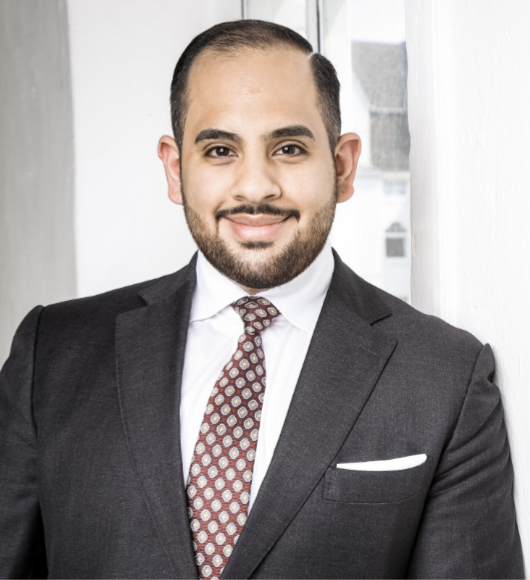
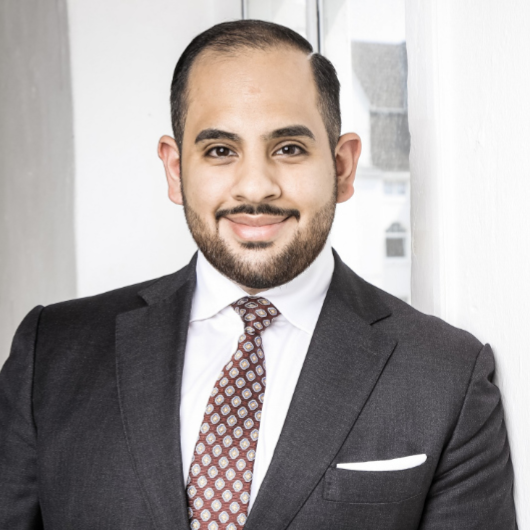
mobile Version

diff --git a/src/index.html b/src/index.html
@@ -5,61 +5,74 @@
     <meta name="viewport" content="width=device-width, initial-scale=1.0">
     <title>Personal Website</title>
     <link rel="stylesheet" href="styles/index.css">
-</head>
-<body>
+    <link rel="preconnect" href="https://fonts.gstatic.com">
+    <link rel="preconnect" href="https://fonts.gstatic.com">
+    <link rel="preconnect" href="https://fonts.gstatic.com">
+    <link rel="preconnect" href="https://fonts.gstatic.com">
+    <link rel="preconnect" href="https://fonts.gstatic.com">
+    <link href="https://fonts.googleapis.com/css2?family=Bebas+Neue&family=Nanum+Gothic:wght@400;700&family=Reenie+Beanie&display=swap" rel="stylesheet">
     <header>
         <h1>Abdullah Minawal</h1>
-        <nav>
-            <a href="#ueber-mich">About</a>
+        <nav class="navigation">
+            <a href="#info">Info</a>
+            <a href="#contact">Contact</a>
+            <a href="#about-me">About</a>
             <a href="#cv">CV</a>
         </nav>
     </header>
     <main>
-    <section>
-        <img src="images/Abdullah Minawal.png" alt="Das ist Abdullah Minawal" width="250px" height="auto;">
-        <figcaption>Das ist ein Bild für das ich mich mal rausgeputzt habe.</figcaption>
+    <section class="profil">
+        <img src="images/Abdullah Minawal.png" alt="Das ist Abdullah Minawal" width="80%" height="auto;" class="profilbild">
+        <figcaption class="fig">Hi, ich bin Abdullah!</figcaption>
     </section>
-    <main>
-        <h2>Meine Interessen</h2>
+    <section id="info" class="info">
+        <div class="interessen">
+        <h2>My Interests <span>✌</span></h2>
         <ul>
-            <li>Essen</li>
-            <li>Schlafen</li>
-            <li>Kraftsport</li>
-            <li>Programmieren</li>
+            <li class="red">Lesen</li>
+            <li class="green">Kochen</li>
+            <li class="blue">Kraftsport</li>
+            <li class="gold">Reisen</li>
+            <li class="purple">Programmieren</li>
         </ul>
-        <h2>Meine Skills</h2>
+        </div>
+        <h2>My Skills <span>⚙</span></h2>
         <ul>
-            <li>Essen</li>
-            <li>Schlafen</li>
-            <li>Kraftsport</li>
-            <li>Bald Programmieren</li>
+            <li class="blue">HTML5</li>
+            <li class="red">CSS3</li>
+            <li class="gold">JavaScript</li>
+            <li class="purple">React</li>
+            <li class="brown">Git</li>
+            <li class="green">NodeJS</li>
         </ul>
-    </main>
-    <section>
-        <h3>Telefonnummer</h3>
+    </section>
+    <section id="contact" class="contact">
+        <div class="telefon">
+        <h3>Telefon</h3>
         <a href="tel:+49-17669657020">017669657020</a>
+        </div>
         <h3>Mail</h3>
-        <a href="mailto:abdullah.minawal@hotmail.de">abdullah.minawal@hotmail.de</a>
+        <a href="mailto:abdullah.minawal@hotmail.de">a.minawal@hotmail.de</a>
     </section>
-    <section>
+    <section class="social">
+        <h2>Vistit me on</h2>
         <a href="https://github.com/minawal">
-            <img src="images/GitHub-Logo.png" alt="Github" width="250px" height="auto">
-            <h3>GitHub</h3>
+            <img src="images/GitHub-Logo.png" alt="Github" width="200" height="auto">
         </a>
-    </section>
-    <section>
         <a href="https://codepen.io/Abimi">
-            <img src="images/Codepen-Logo.png" alt="CodePen" width="250px" height="auto">
-            <h3>CodePen</h3>
+            <img src="images/Codepen-Logo.png" alt="CodePen" width="200" height="auto" class="codepen">
         </a>
     </section>
-    <section id="ueber-mich">
-        <h2>Über mich</h2>
-        <p>In diesem Text stelle ich mich vor</p>
+    <section class="about-me" id="about-me">
+        <h2>About me</h2>
+        <p>Lorem ipsum dolor sit amet, consetetur sadipscing elitr, 
+           sed diam nonumy eirmod tempor invidunt ut labore et dolore magna aliquyam erat,
+           sed diam voluptua. At vero eos et accusam et justo duo dolores et ea rebum. 
+           Stet clita kasd gubergren, no sea takimata sanctus est Lorem ipsum dolor sit amet.</p>
     </section>
-    <section id="cv">
+    <section class="cv" id="cv">
         <h2>CV</h2>
-        <table>
+        <table class="cv-table">
             <tr>
                 <th>Schule</th>
                 <td>Albrecht-Thaer-Gymnasium</td>
@@ -70,65 +83,14 @@
             </tr>
             <tr>
                 <th>Arbeit</th>
-                <td>Bundeskanzler</td>
+                <td>Exomedia GmbH</td>
             </tr>
         </table>
     </section>
     </main>
-    <footer id="footer">
-        <p>Das ist der Footer-Text</p>
+    <footer class="footer" id="footer">
+        <p>© 2021 by Abdullah Minawal</p>
     </footer>
-
-    <br>
-    <br>
-    <br>
-    <br>
-    <br>
-    <br>
-    <br>
-    <br>
-    <br>
-    <br>
-    <br>
-    <br>
-    <br>
-    <br>
-    <br>
-    <br>
-    <br>
-    <br>
-    <br>
-    <br>
-    <br>
-    <br>
-    <br>
-    <br>
-    <br>
-    <br>
-    <br>
-    <br>
-    <br>
-    <br>
-    <br>
-    <br>
-    <br>
-    <br>
-    <br>
-    <br>
-    <br>
-    <br>
-    <br>
-    <br>
-    <br>
-    <br>
-    <br>
-    <br>
-    <br>
-    <br>
-    <br>
-    <br>
-    <br>
-    <br>
 
 </body>
 </html>

diff --git a/src/styles/index.css b/src/styles/index.css
@@ -1,4 +1,219 @@
-body {
-    background: hotpink;
+* {
+    box-sizing: border-box;
 }
 
+body {
+    font-family: 'Nanum Gothic', sans-serif;
+    font-size: 112.5%;
+    line-height: 1.5;
+    text-align: center;
+
+}
+
+h1, h2, h3 {
+    font-family: 'Bebas Neue', cursive;
+}
+
+h1 {
+    margin: 0;
+    padding: 30px;
+    color: gold;
+}
+
+h2 {
+    margin: 0;
+    padding-bottom: 10px;
+}
+
+
+
+h3 {
+    margin: 0px;
+}
+
+a {
+    text-decoration: none;
+    border-bottom: 1px solid gold;
+    font-weight: bold;
+}
+
+ul {
+    list-style-type: none;
+    list-style-position: outside;
+    padding: 0;
+    margin: 0;
+    display: flex;
+    justify-content: center;
+    flex-wrap: wrap;
+    color: white;
+}
+
+li {
+    background-color: red;
+    padding: 10px;
+    margin: 5px 10px;
+    border-radius: 3px;
+}
+
+span {
+    font-size: 35px;
+}
+
+header {
+    background-color: black;
+    color: white;
+}
+
+header > a {
+    color: #fff;
+}
+
+.navigation {
+    display: flex;
+    justify-content: space-evenly;
+    align-items: stretch;
+    padding-bottom: 30px;
+}
+
+.navigation > a {
+    color: white;
+}
+
+.profil {
+    background-color: black;
+    margin-top: -1px;
+}
+
+.profilbild {
+    display: block;
+    margin: 0 auto;
+    border-radius: 1000px;
+}
+
+.fig {
+    font-family: 'Reenie Beanie', cursive;
+    font-size: 35px;
+    color: gold;
+    padding: 30px;
+}
+
+.info {
+    padding: 50px 0;
+    font-weight: bol;
+    max-width: 90%;
+    margin: 0 auto;
+}
+
+.interessen {
+    margin-bottom: 30px;
+}
+
+.red {
+    background-color: red;
+}
+
+.blue {
+    background-color: blue;
+}
+
+.green {
+    background-color: green;
+}
+
+.pink {
+    background-color: salmon;
+}
+
+.gold {
+    background-color: gold;
+}
+
+.purple {
+    background-color: purple;
+}
+
+.brown {
+    background-color: brown;
+}
+
+.contact {
+    border: 10px solid black;
+    padding: 30px;
+}
+
+.contact a {
+    color: black;
+    border-bottom: 1px solid black;
+    font-weight: bold;
+}
+
+.telefon {
+    margin-bottom: 30px;
+}
+
+.social {
+    padding: 50px;
+}
+
+.social > a {
+    display: inline-block;
+    border: none;
+    padding: 20px;
+}
+
+.social img {
+    width: 100%;
+    max-width: 200px;
+    height: auto;
+}
+
+.about-me {
+    color: white;
+    background-color: black;
+    margin: 0 auto;
+    padding: 30px 0;
+}
+
+.about-me > h2 {
+    color: gold;
+}
+
+.about-me > p {
+    padding: 0;
+    width: 90%;
+    margin: 0 auto;
+}
+
+.cv {
+    padding: 50px 0;
+}
+
+.cv-table {
+    text-align: left;
+    width: 90%;
+    margin: 0 auto;
+}
+
+.cv-table th {
+    padding-right: 20px;
+    padding-left: 5px;
+    border: 1px solid black;
+    border-radius: 3px;
+}
+
+.cv-table td {
+    padding-left: 5px;
+    border: 1px solid black;
+    border-radius: 3px;
+}
+
+footer {
+    color: white;
+    background-color: black;
+    padding: 30px;
+}
+
+footer > p {
+    margin: 0;
+    font-size: 14px;
+}
